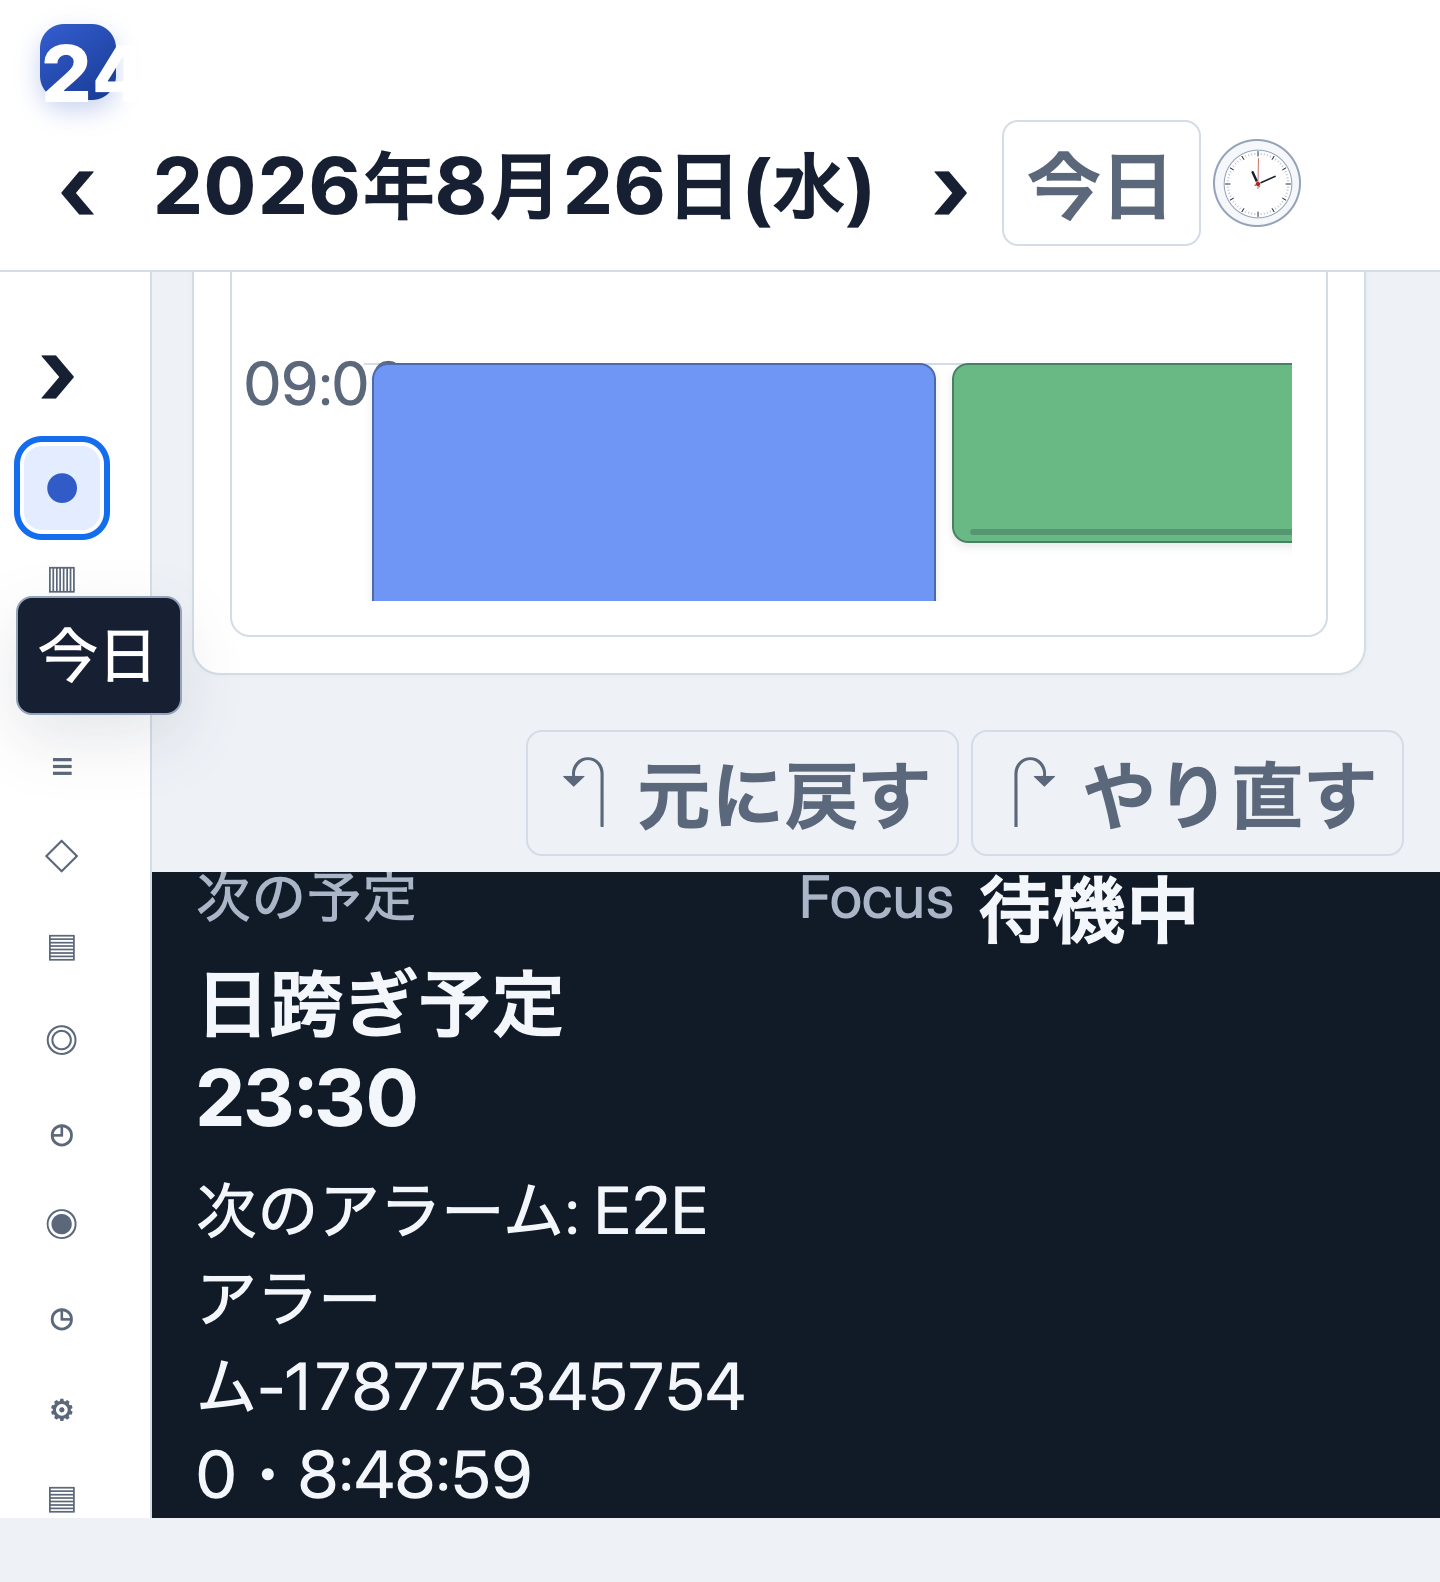
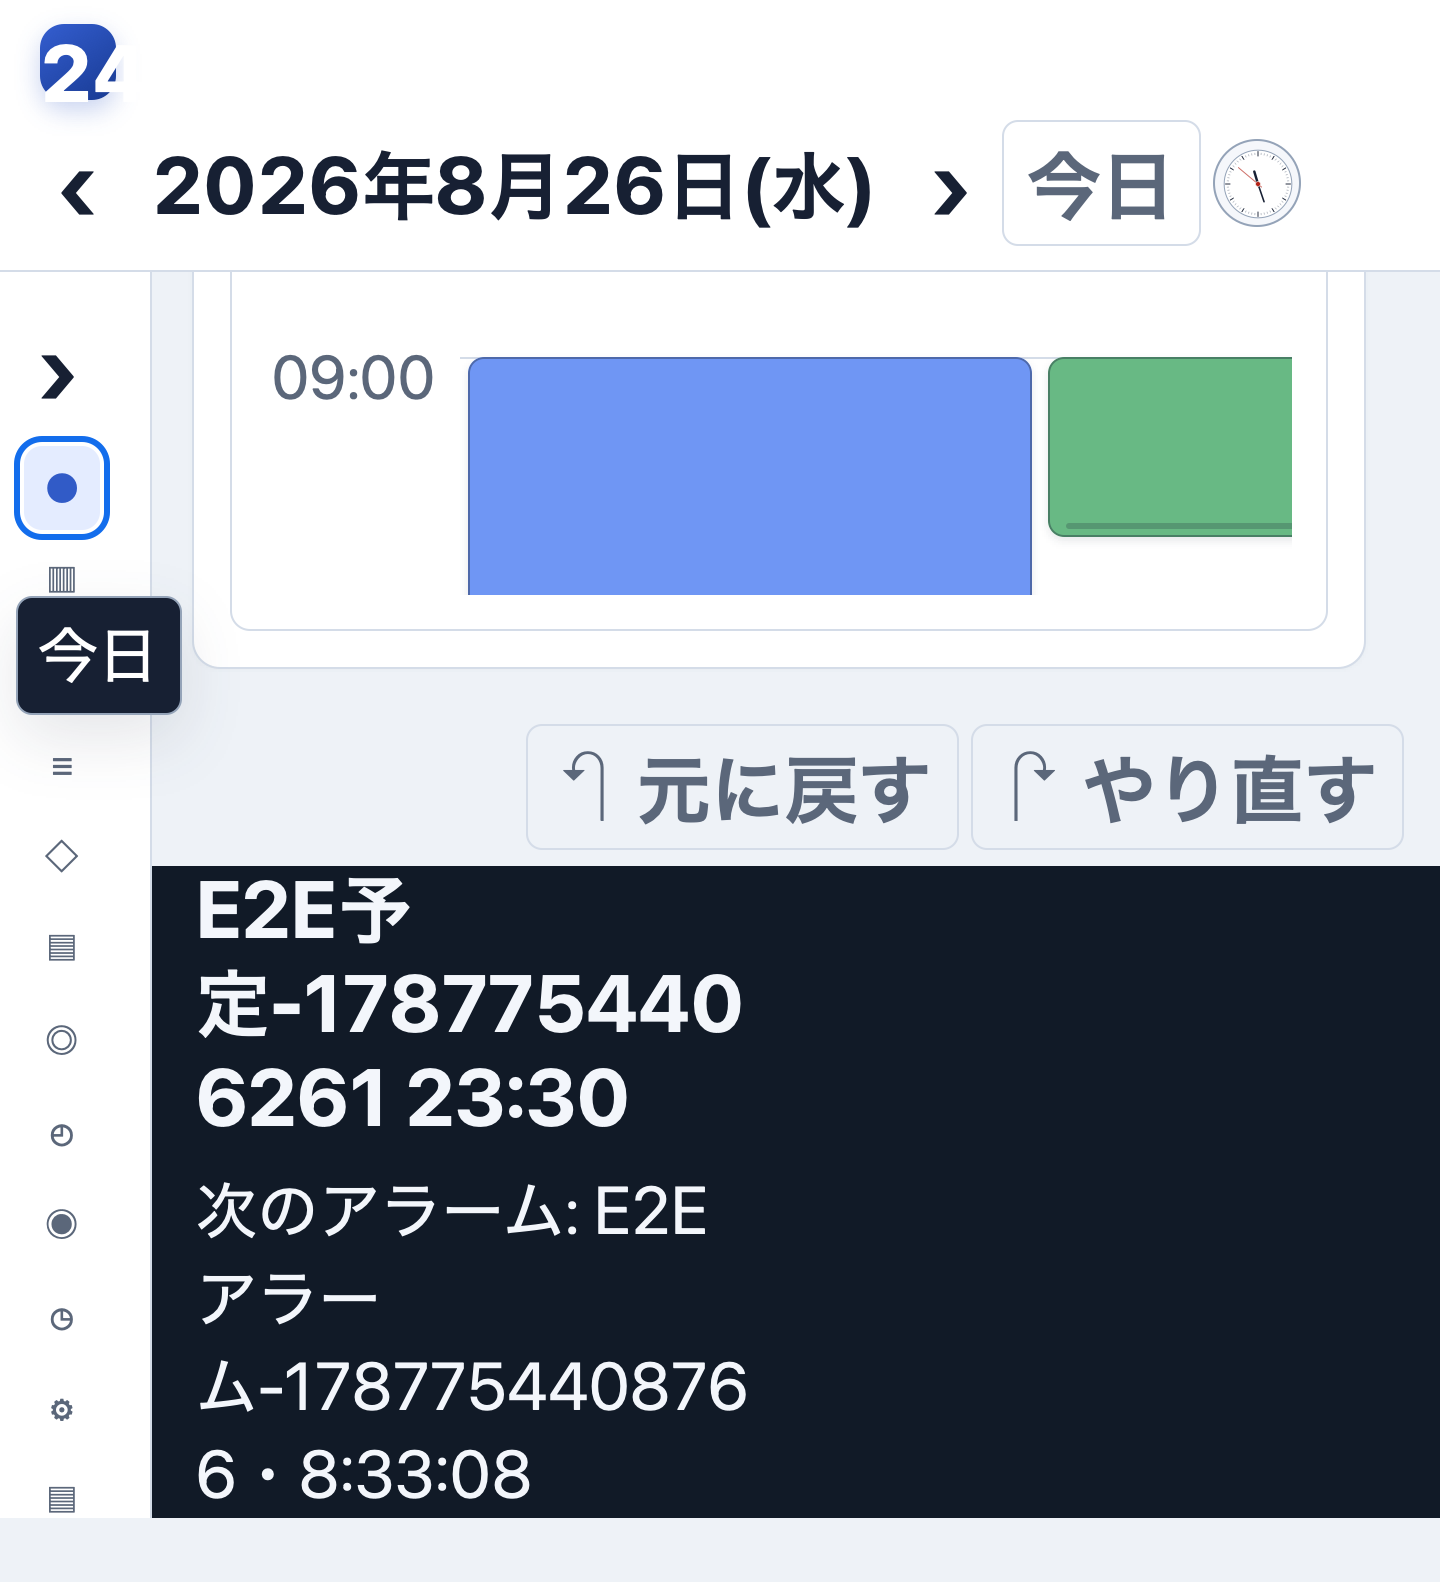
test(release): update final text-scale evidence

diff --git a/docs/ai-governance/reports/issue-98-uiux-review.md b/docs/ai-governance/reports/issue-98-uiux-review.md
@@ -20,7 +20,7 @@
 - app内DOM tooltipはroot倍率へ従う。Tauri native tray / Ticket右クリックmenu、HTMLの`title`属性による標準補足表示などOS/WebView描画部分は、OS/WebViewの表示・accessibility倍率へ委ねる。
 - 反証対象は100%、全6倍率、720px幅、250%、長い日本語、重複予定、各main destination、別window即時反映、process再起動、旧exportです。
 
-macOS arm64では、製品実装commit `c9521c2` / `07ee62d` / `d561be2` / `1b30233`に対するreal Tauri / WKWebViewのnative E2Eを2026-08-26に実行しました。6倍率のpreview、250%保存後の同一process reload、同じ一時SQLite data directoryを使う別process restart、開いているCompact / analog clockへのevent反映、720 × 720のToday、client area 280 × 280のanalog clock、各main destinationの横overflowとscroll到達性がPassしています。Now Dockの次アラーム文字列は、通常幅と720px幅で文字矩形が要素・Dock内に収まり、縦横overflowがないことも実測しています。E2E harnessと公開証跡は後続のtest / release commitへ収録します。
+macOS arm64では、製品実装commit `c9521c2` / `07ee62d` / `d561be2` / `1b30233` / `8d99a8b`に対するreal Tauri / WKWebViewのnative E2Eを2026-08-26に実行しました。6倍率のpreview、250%保存後の同一process reload、同じ一時SQLite data directoryを使う別process restart、開いているCompact / analog clockへのevent反映、720 × 720のToday、client area 280 × 280のanalog clock、各main destinationの横overflowとscroll到達性がPassしています。Now Dockの次アラーム、Timeline時刻軸、Compactの長い現在・次予定名は、文字矩形が要素・表示領域内に収まり、縦横overflowがないことも実測しています。E2E harnessと公開証跡は後続のtest / release commitへ収録します。
 
 P0 / P1の残存判定は、native release validationと関連artifactの実在・内容・source commit対応が揃うまで未確定です。Windows x64とmacOS x64のCI native実行、実Windows high DPI / WebView2、VoiceOver / NVDA、installer install / launchは本レポートでは未確認です。OS実機未確認の状態を確認済みとは扱いません。
 

diff --git a/docs/evidence/issue-98/README.md b/docs/evidence/issue-98/README.md
@@ -1,15 +1,15 @@
 # Issue #98 native visual evidence
 
-2026-08-26に、製品実装commit `c9521c2` / `07ee62d` / `d561be2` / `1b30233`をmacOS arm64のreal Tauri / WKWebViewで、E2E専用identifierとsynthetic dataを使って起動し取得した画像です。個人予定、実アカウント、token、raw logは含みません。画像は文字表示倍率の視認性と操作到達性を補助的に確認するもので、Windows high DPI、macOS x64、VoiceOver / NVDA、installer install / launchの証跡を兼ねません。画像checksumは[`SHA256SUMS`](SHA256SUMS)に固定しています。
+2026-08-26に、製品実装commit `c9521c2` / `07ee62d` / `d561be2` / `1b30233` / `8d99a8b`をmacOS arm64のreal Tauri / WKWebViewで、E2E専用identifierとsynthetic dataを使って起動し取得した画像です。個人予定、実アカウント、token、raw logは含みません。画像は文字表示倍率の視認性と操作到達性を補助的に確認するもので、Windows high DPI、macOS x64、VoiceOver / NVDA、installer install / launchの証跡を兼ねません。画像checksumは[`SHA256SUMS`](SHA256SUMS)に固定しています。
 
 | File | State |
 | --- | --- |
 | `native-settings-text-100.png` | Settings 100% baseline |
 | `native-settings-text-250.png` | Settings 250%、保存操作までscroll到達 |
 | `native-today-text-250.png` | Today 250%、Now Dockの次予定・次アラーム全文を表示 |
-| `native-today-text-250-narrow.png` | Today 720 × 720 / 250%、下端操作までscroll到達 |
+| `native-today-text-250-narrow.png` | Today 720 × 720 / 250%、完全な時刻軸と下端操作までscroll到達 |
 | `native-today-readable-list-text-250.png` | Today 720 × 720 / 250%、時間barを補う完全な予定名一覧 |
-| `native-compact-text-250.png` | Compact 250% |
+| `native-compact-text-250.png` | Compact 250%、長い現在・次予定名を折返し |
 | `native-compact-actions-text-250.png` | Compact 250%、末尾操作への到達 |
 | `native-analog-clock-text-250.png` | Analog clock settings 250% |
 | `native-analog-clock-minimum.png` | Analog clock client area 280 × 280 / 250% |
